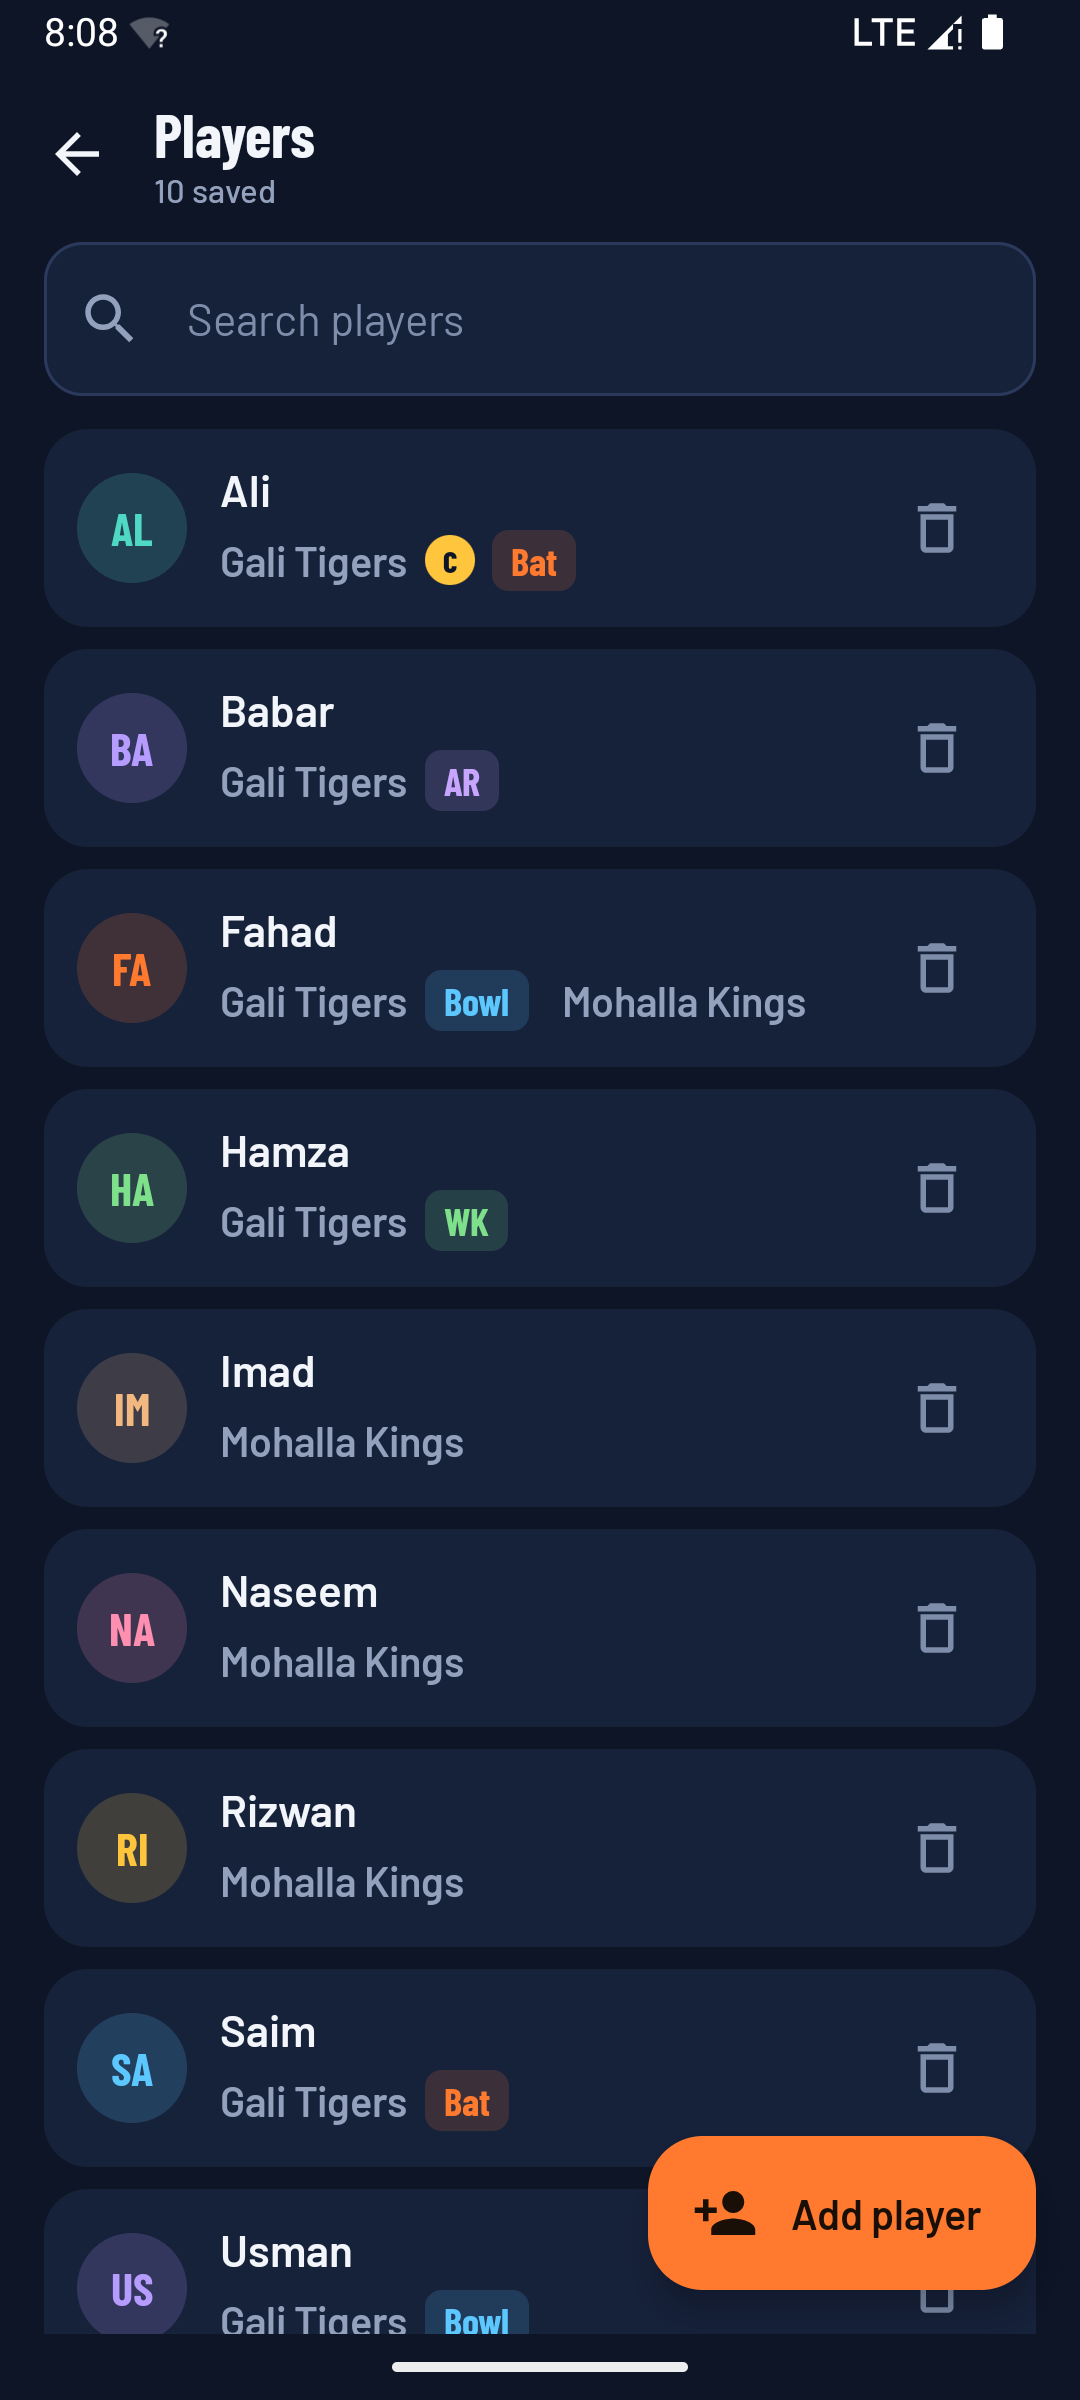
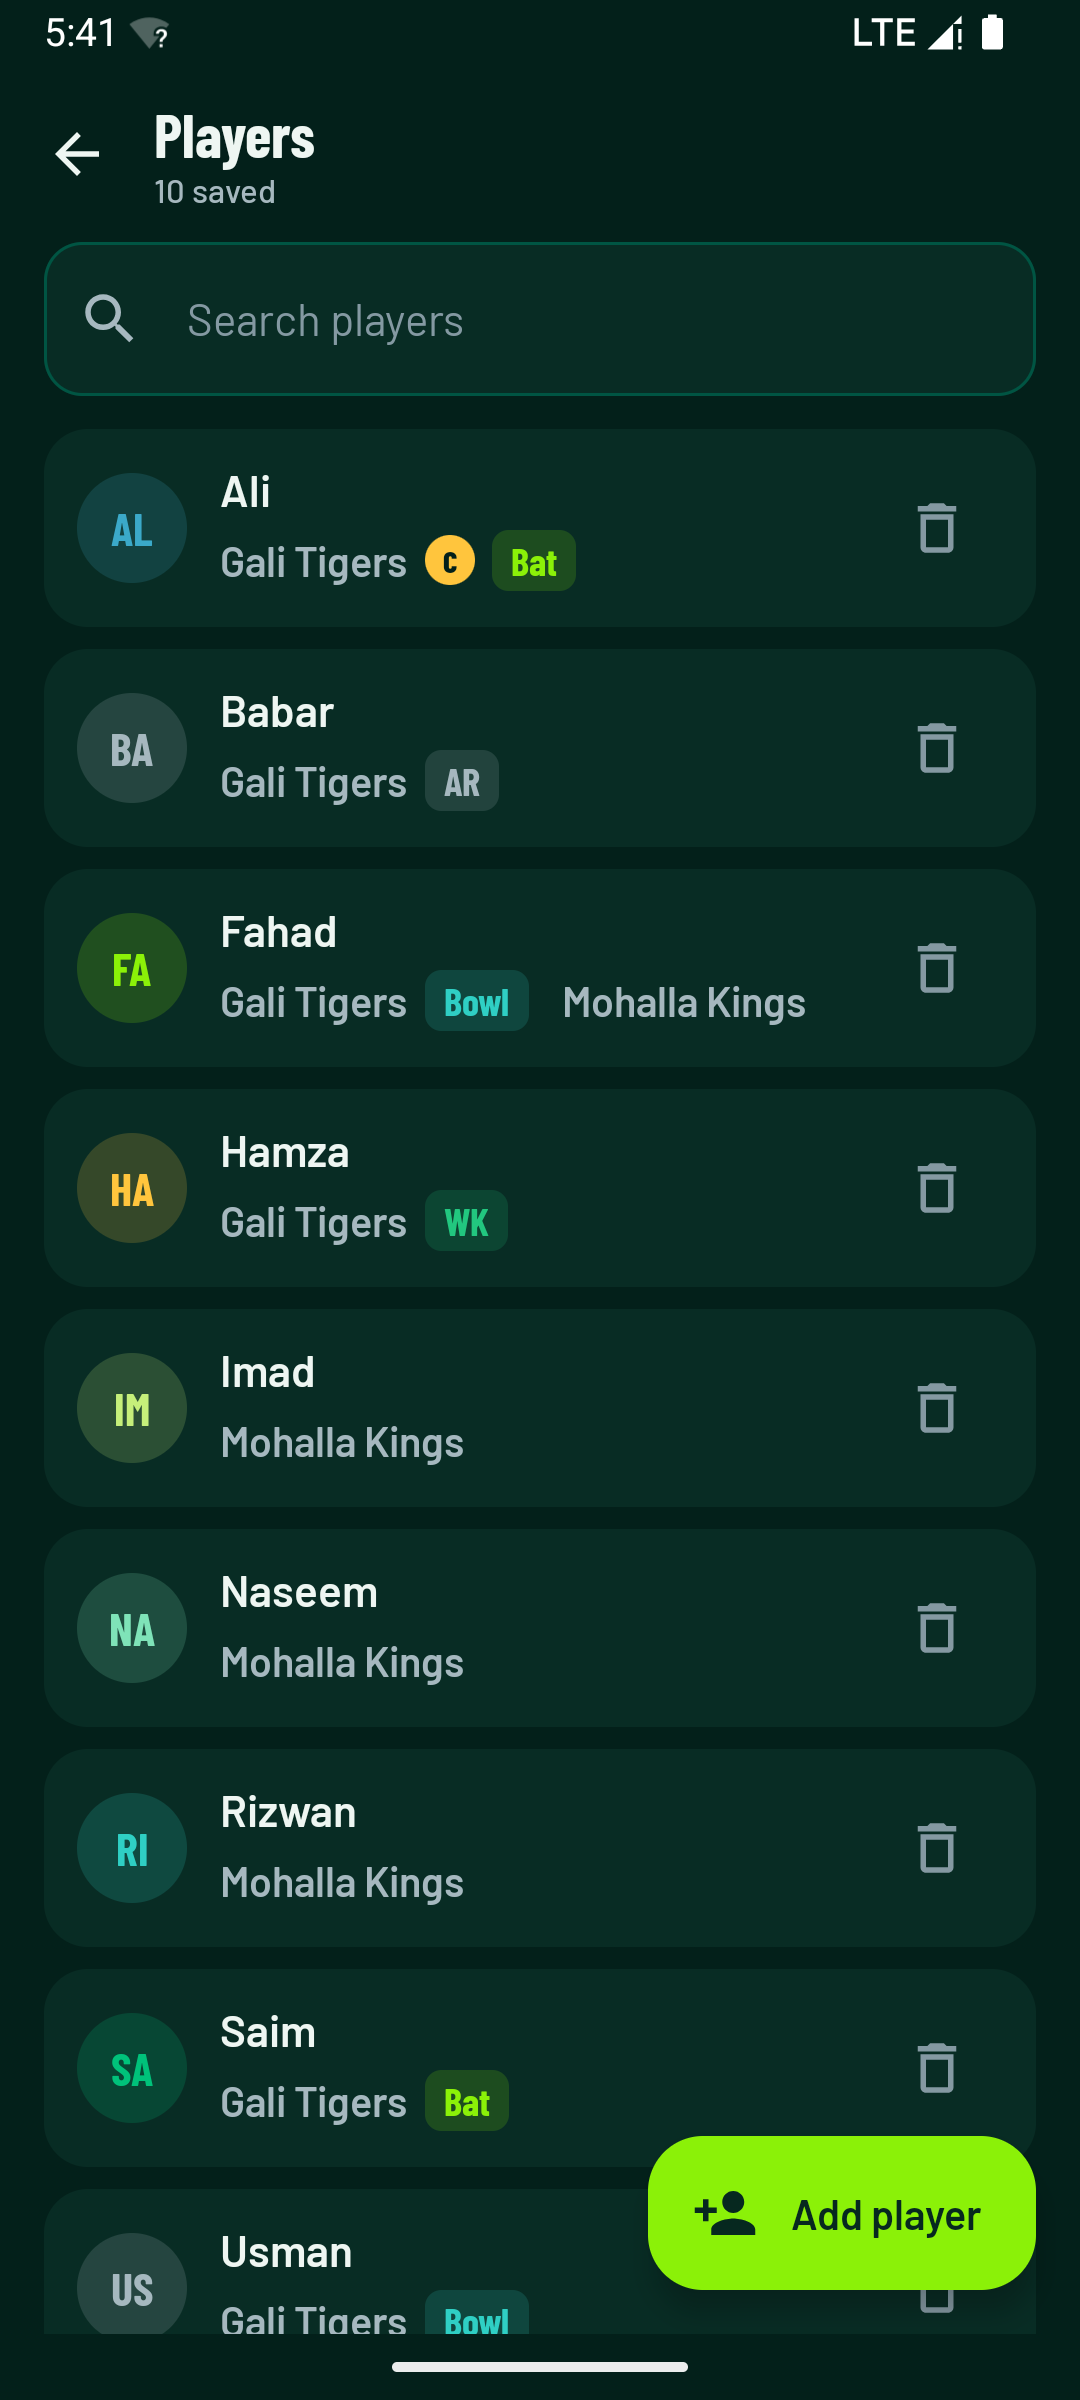
release 1.2.1: green palette screenshots and fielder chip fix
- README screenshots retaken in the new palette
- When a fielder is selected on the wicket sheet, their initials badge is
  drawn in dark ink so it stays visible on the lime chip
- Version 1.2.1 (code 4)

diff --git a/app/src/main/java/com/example/ui/ScoringScreen.kt b/app/src/main/java/com/example/ui/ScoringScreen.kt
@@ -1131,7 +1131,8 @@ private fun WicketSheet(
                                 },
                                 selected = fielder == f,
                                 onClick = { fielder = if (fielder == f) null else f },
-                                leading = { Monogram(f, size = 22.dp) }
+                                // On the volt selected chip, ink the monogram so it never matches the chip
+                                leading = { Monogram(f, size = 22.dp, color = if (fielder == f) Lsl.VoltInk else teamColor(f)) }
                             )
                         }
                     }
